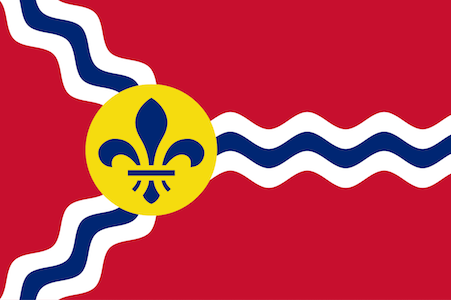
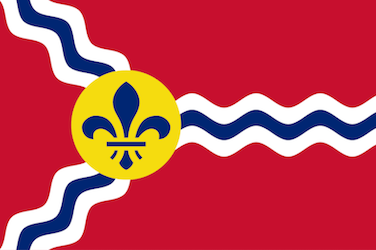
Shrunk images to fit inline

diff --git a/index.md b/index.md
@@ -10,8 +10,7 @@ region: North America
 
 ## Welcome
 
-![OWASP Saint Louis](assets/images/stl-skyline.jpg)
-![OWASP Saint Louis](assets/images/stl-flag.png)
+![OWASP Saint Louis](assets/images/stl-skyline.jpg) ![OWASP Saint Louis](assets/images/stl-flag.png)
 
 Welcome [Greater St. Louis area](https://en.wikipedia.org/wiki/Greater_St._Louis) and beyond!  We are the the local 
 chapter serving Missouri and southern Illinois.  Our mission is to make software security visible, so that individuals 
